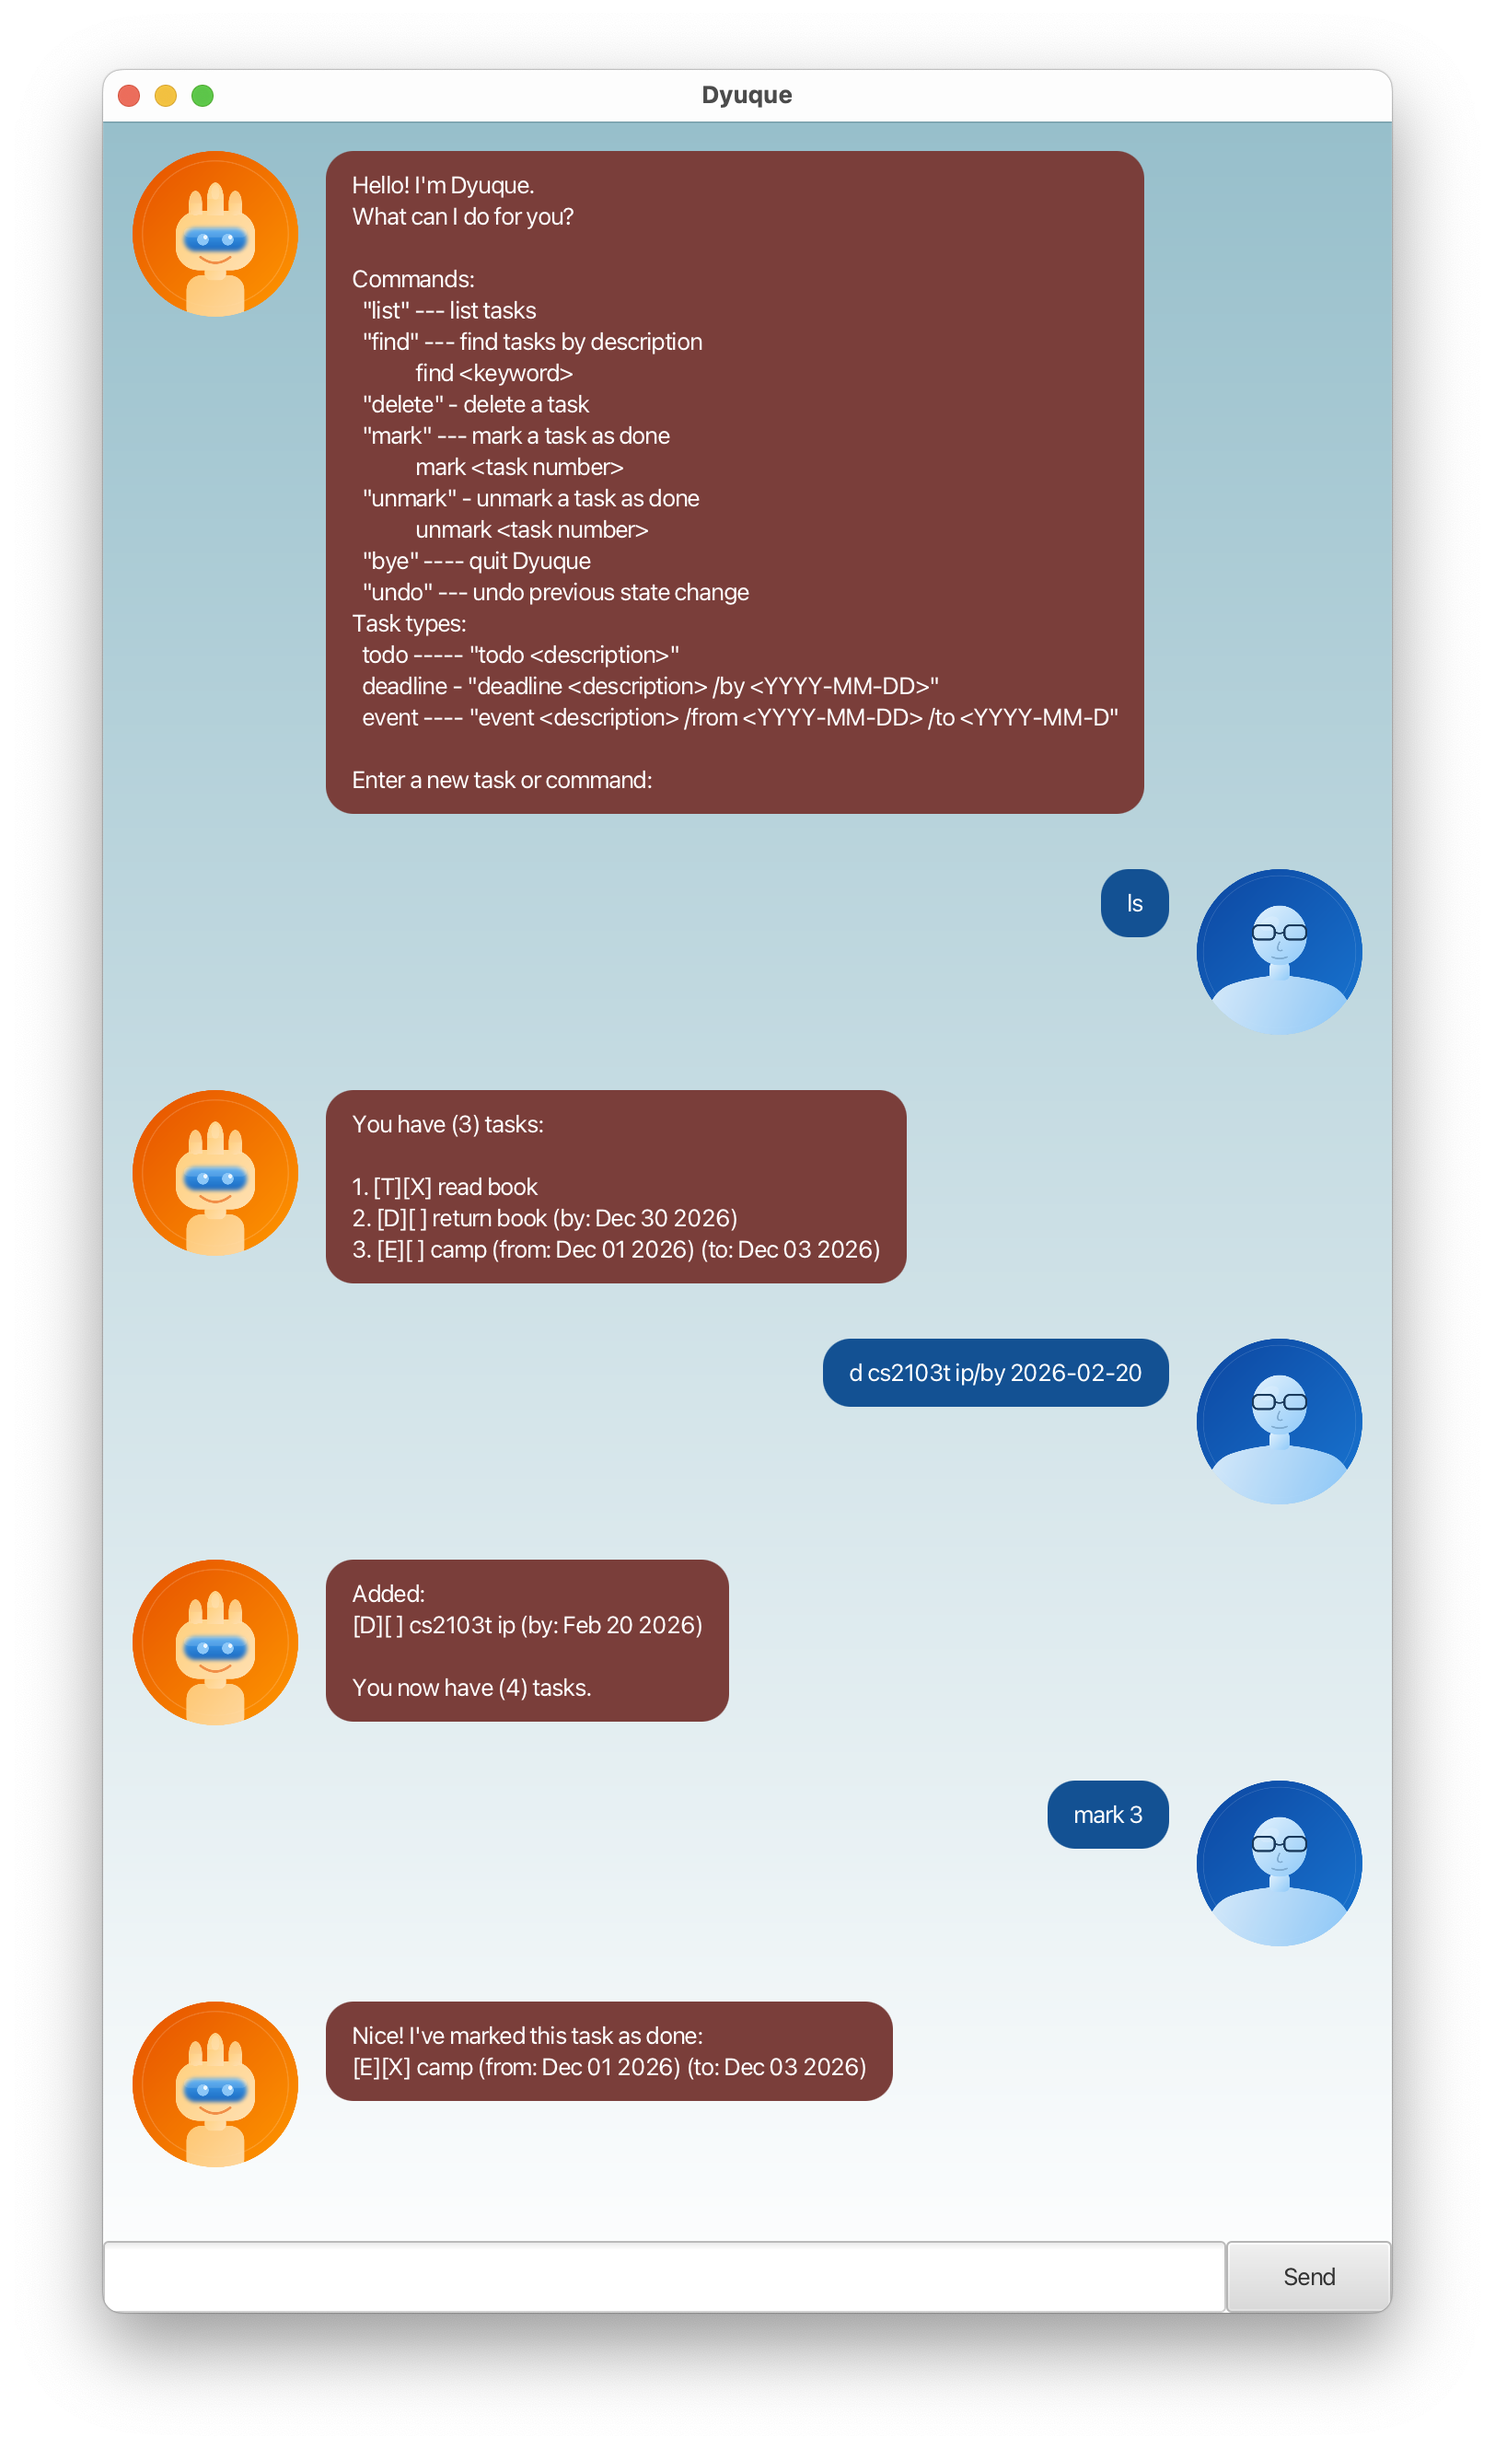
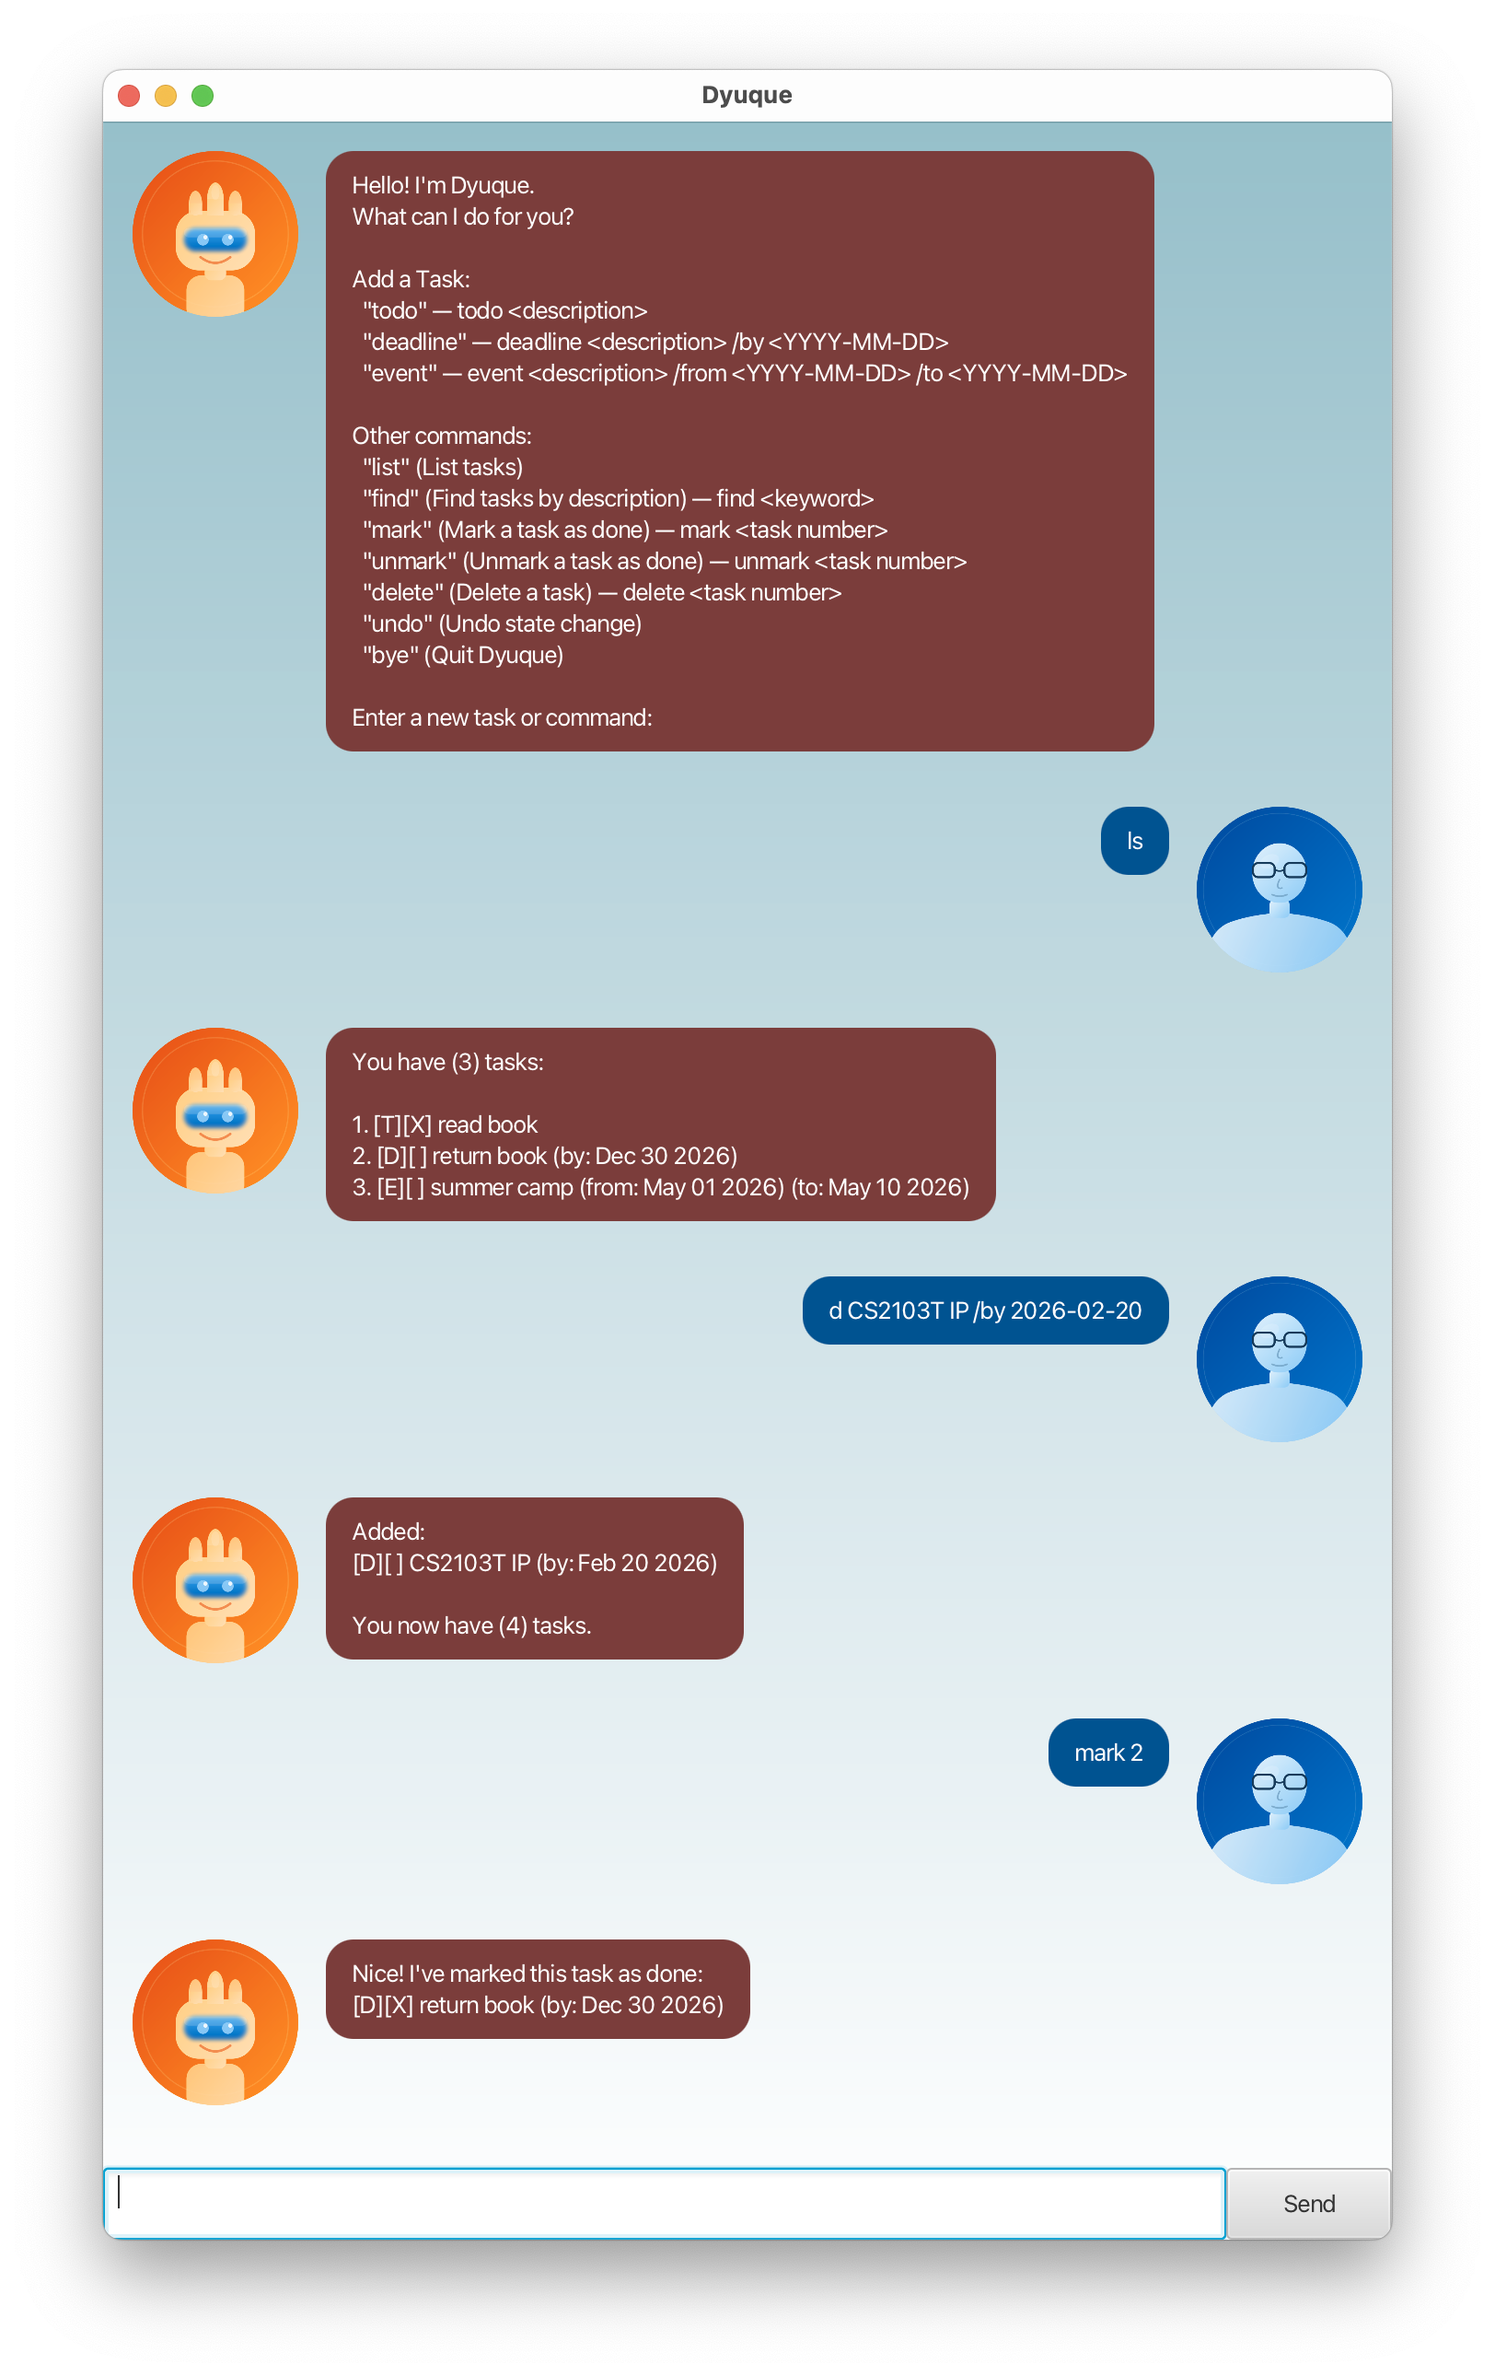
Week 7: Improve UI and fix typo

diff --git a/src/main/java/dyuque/Ui.java b/src/main/java/dyuque/Ui.java
@@ -19,21 +19,19 @@ public final class Ui {
      */
     public static String showHelp() {
         return """
-                Commands:
-                  "list" --- list tasks
-                  "find" --- find tasks by description
-                             find <keyword>
-                  "delete" - delete a task
-                  "mark" --- mark a task as done
-                             mark <task number>
-                  "unmark" - unmark a task as done
-                             unmark <task number>
-                  "bye" ---- quit Dyuque
-                  "undo" --- undo previous state change
-                Task types:
-                  todo ----- "todo <description>"
-                  deadline - "deadline <description> /by <YYYY-MM-DD>"
-                  event ---- "event <description> /from <YYYY-MM-DD> /to <YYYY-MM-D"
+                Add a Task:
+                  "todo" — todo <description>
+                  "deadline" — deadline <description> /by <YYYY-MM-DD>
+                  "event" — event <description> /from <YYYY-MM-DD> /to <YYYY-MM-DD>
+
+                Other commands:
+                  "list" (List tasks)
+                  "find" (Find tasks by description) — find <keyword>
+                  "mark" (Mark a task as done) — mark <task number>
+                  "unmark" (Unmark a task as done) — unmark <task number>
+                  "delete" (Delete a task) — delete <task number>
+                  "undo" (Undo state change)
+                  "bye" (Quit Dyuque)
                 """;
     }
 
